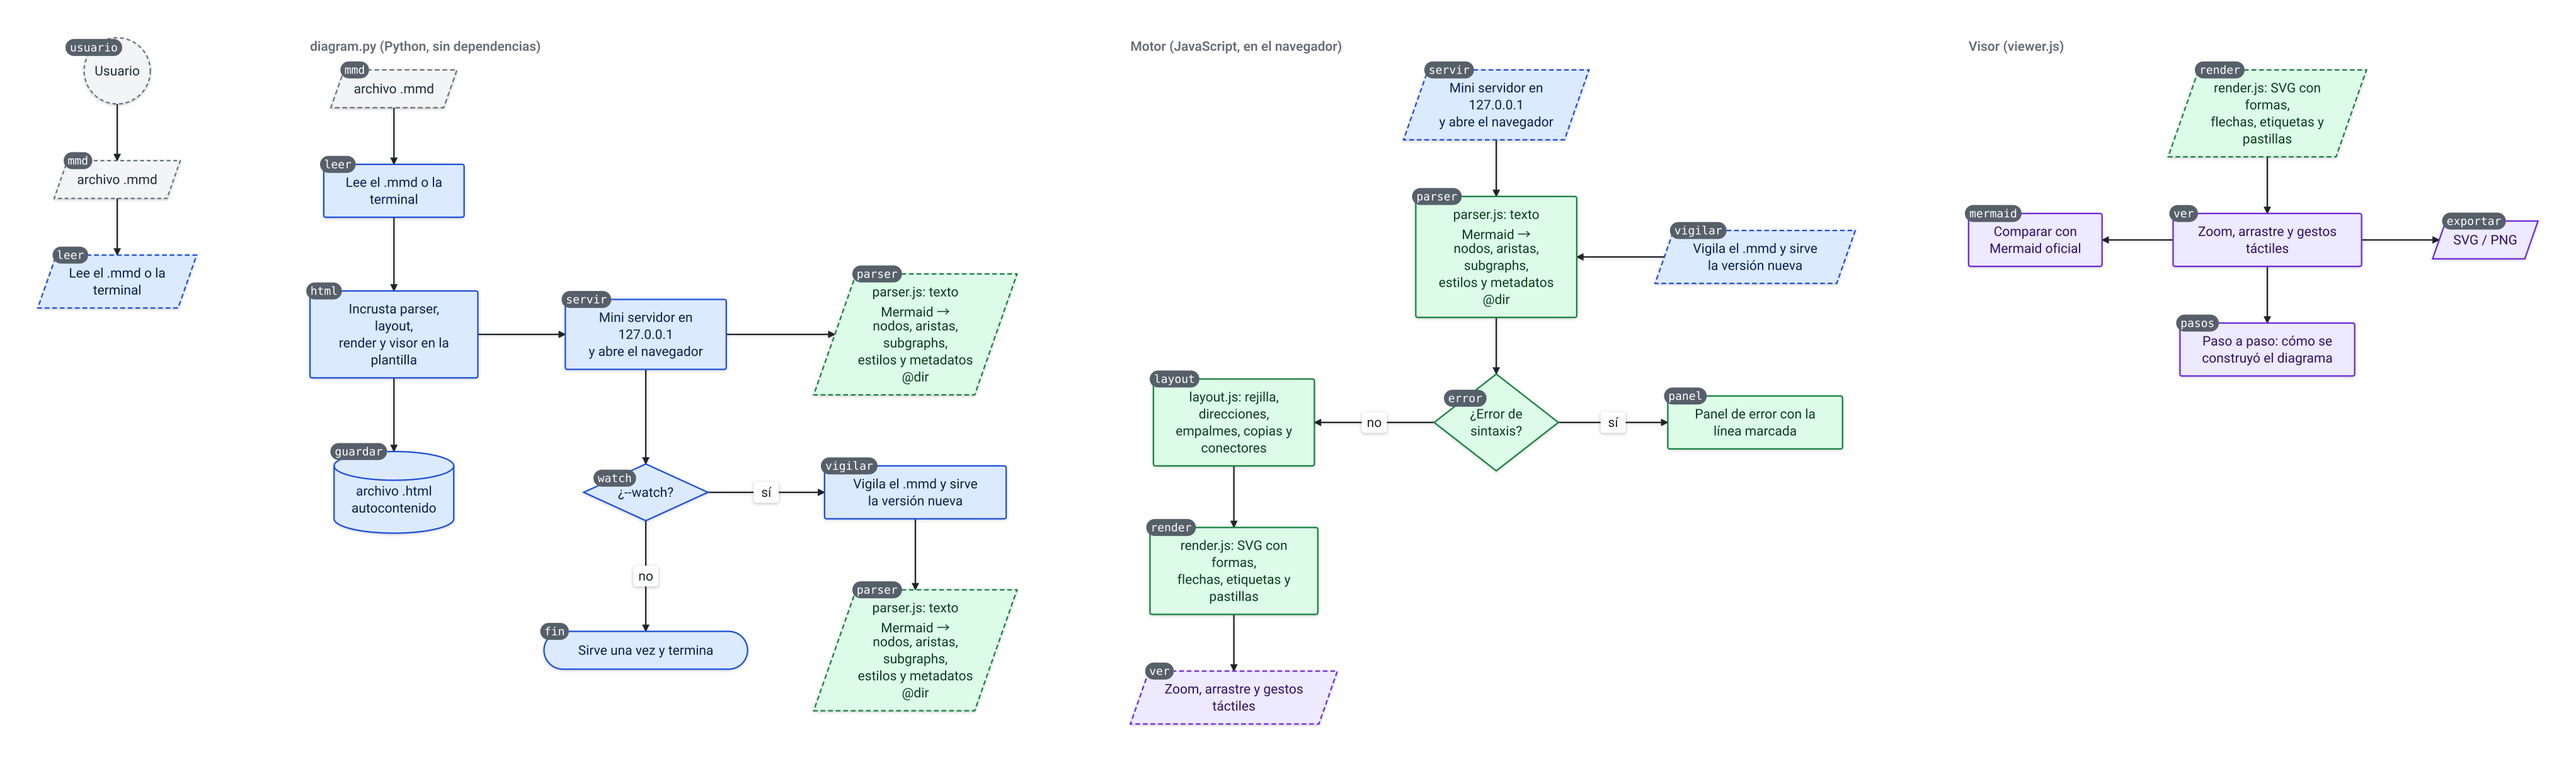
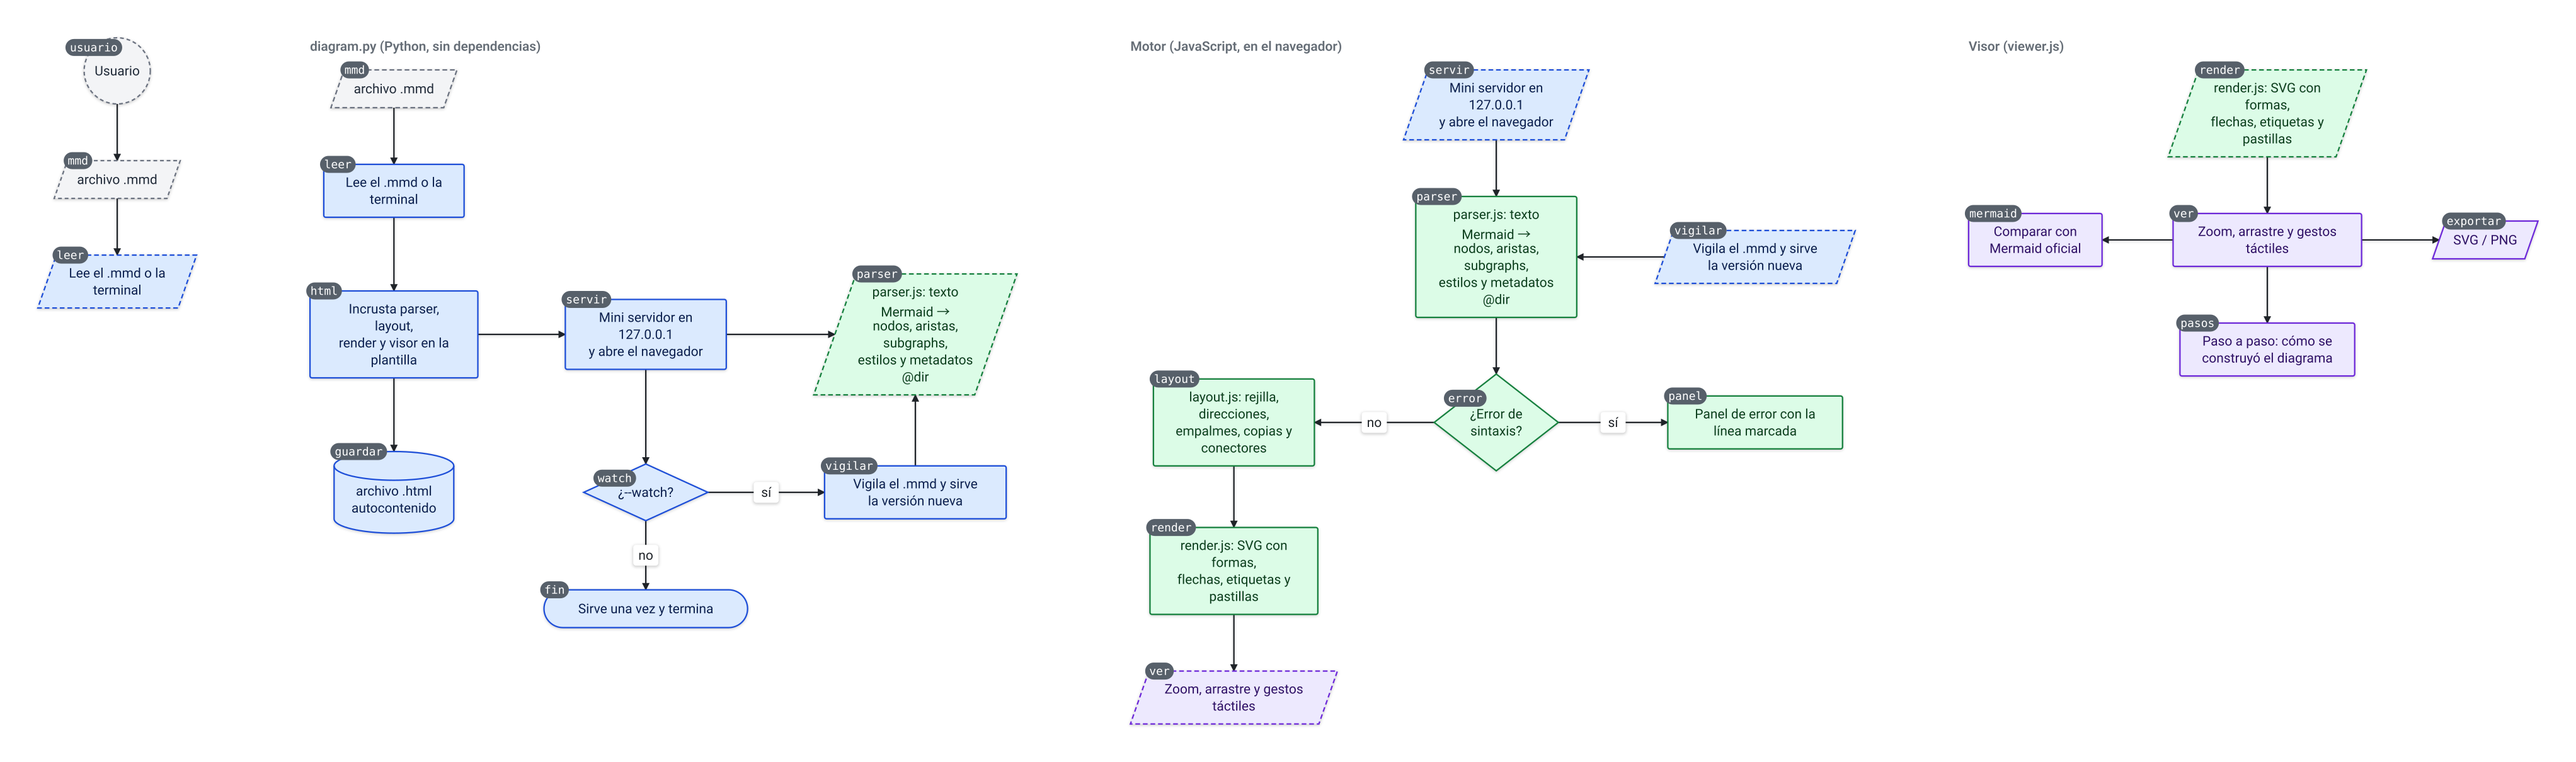
Reutilizar un representante que el nodo ya tiene al lado en vez de crear otro
Si un nodo necesita una referencia, copia o conector de X y ya tiene pegado (o reservado a su
lado) un representante de X, la flecha va a ese. En el diagrama del proyecto, vigilar usa la
referencia a parser que tiene encima en vez de crear otra debajo.

Changed region(s): [[0.1864, 0.7645, 0.4038, 0.9479]]

diff --git a/src/layout.js b/src/layout.js
@@ -864,6 +864,29 @@ function placeInGrid(nodes, edges, warnings, ctx) {
   const roots = [...real.filter((n) => !hasIncoming.has(n.id)), ...real, ...all.filter((n) => n.ref)];
 
   // Coloca los hijos directos (y referencias pegadas) de parent; devuelve los nodos nuevos a recorrer.
+  // Qué nodo representa un nodo (una referencia, una copia o el original tienen la misma identidad;
+  // un empalme o su copia, la de su dueño). Si el padre ya tiene pegado un representante del nodo
+  // que necesita, la flecha va a ese en vez de crear otra referencia, copia o conector.
+  const identity = (n) => (n.shape === "junction" ? `\u25cf${n.junctionOf}` : n.realId || n.id);
+  // También vale una celda reservada para un representante que aún no se ha colocado (con el
+  // recorrido en profundidad, el hermano que lo colocará puede no haberlo hecho todavía).
+  const twinNextTo = (parent, target) => {
+    for (const d of ["down", "right", "left", "up"]) {
+      const key = cellAt(parent, d);
+      const m = occupied.get(key) || (pending.has(key) && nodes.get(pending.get(key)));
+      if (m && m !== target && m !== parent && identity(m) === identity(target)) return { node: m, side: d };
+    }
+    return null;
+  };
+  const reuseTwin = (e, parent, twin, why) => {
+    const old = nodes.get(e.to);
+    for (const [k, id] of pending) if (id === old.id || id === `copy:${e.index}`) pending.delete(k);
+    if (old.col === undefined && edges.every((x) => x === e || (x.from !== old.id && x.to !== old.id))) nodes.delete(old.id);
+    e.to = twin.node.id;
+    e.dir = twin.side;
+    twin.node.why += ` · también recibe la flecha de ${who(parent)} (${why})`;
+  };
+
   const expand = (parent, each) => {
     const placed = [];
     for (const e of edges) {
@@ -890,11 +913,24 @@ function placeInGrid(nodes, edges, warnings, ctx) {
       let child = nodes.get(e.to);
       // Un empalme solo lo coloca su dueño, por su extensión: una rama que llega a él espera.
       if (child.shape === "junction" && child.col === undefined && !e.bus) continue;
+      // Referencia aún sin colocar: si el padre ya tiene pegado un representante del mismo nodo, se usa.
+      if (child.col === undefined && child.ref && !e.bus) {
+        const twin = twinNextTo(parent, child);
+        if (twin) {
+          reuseTwin(e, parent, twin, "ya tenía una referencia igual al lado");
+          continue;
+        }
+      }
       if (child.col !== undefined) {
         if (e.bus) continue; // la extensión a un empalme propio nunca se copia
         // Hijo ya colocado lejos y sin hijos: se le pone una copia aquí, en su turno (regla 12).
         const leaf = farLeaf(parent, child);
         if (!leaf) continue; // TODO (SPEC): bucles / varios padres
+        const twin = twinNextTo(parent, leaf);
+        if (twin) {
+          reuseTwin(e, parent, twin, "en vez de otra copia");
+          continue;
+        }
         child = copyOfLeaf(leaf, e);
       }
       const extra = placeNextTo(parent, child, e);
@@ -1172,6 +1208,11 @@ function placeInGrid(nodes, edges, warnings, ctx) {
       const u = nodes.get(x.from);
       const target = nodes.get(x.to);
       if (!u || !target || u.col === undefined || target.col === undefined || !badLine(x)) continue;
+      const twin = twinNextTo(u, target);
+      if (twin) {
+        reuseTwin(x, u, twin, "en vez de un conector");
+        continue;
+      }
       const owner = target.junctionOf || target.realId || target.id;
       const dot = {
         id: `${target.id}\u2192${++connectors}`,
@@ -1241,7 +1282,7 @@ function placeInGrid(nodes, edges, warnings, ctx) {
   const alive = new Set(nodes.keys());
   const keep = history.filter((h, k) => {
     const placedAt = h.pos.find(([n]) => n.step === k);
-    return !placedAt || alive.has(placedAt[0].id);
+    return placedAt && alive.has(placedAt[0].id);
   });
   for (const h of keep) {
     h.pos = h.pos.filter(([n]) => alive.has(n.id));

diff --git a/tests/layout.test.js b/tests/layout.test.js
@@ -529,3 +529,17 @@ test("varios padres: la flecha que quedaría en diagonal o sobre un nodo termina
     for (const x of s.edges) assert.ok(m[x.from].col === m[x.to].col || m[x.from].row === m[x.to].row, `paso ${k + 1}`);
   }
 });
+
+test("si el padre ya tiene al lado un representante del mismo nodo, la flecha lo reutiliza (proyecto.mmd: vigilar -> parser)", () => {
+  const src = fs.readFileSync(path.join(__dirname, "../examples/proyecto.mmd"), "utf8");
+  const L = layoutDiagram(parseDiagram(src));
+  const refs = L.nodes.filter((n) => n.ref && (n.realId || n.id) === "parser");
+  assert.strictEqual(refs.length, 1, "una sola referencia a parser en el diagrama de diagram.py");
+  const ref = refs[0];
+  for (const from of ["servir", "vigilar"]) {
+    const e = L.edges.find((x) => x.from === from && x.to === ref.id);
+    assert.ok(e, `${from} apunta a la misma referencia`);
+    const a = L.nodes.find((n) => n.id === from);
+    assert.strictEqual(Math.abs(a.col - ref.col) + Math.abs(a.row - ref.row), 1);
+  }
+});

diff --git a/tests/random.test.js b/tests/random.test.js
@@ -26,7 +26,7 @@ const INICIAL = {
 };
 const CONOCIDOS = new Map(
   (
-    "4:F 83:F 104:CFX 107:F 111:F 116:F 195:F 260:F 266:CX 276:CX 303:F 315:F 349:F 383:CX"
+    "4:F 83:F 104:CFX 107:F 111:F 116:F 182:F 195:F 260:F 266:CX 276:CX 303:F 315:F 349:F 383:CX"
   )
     .split(" ")
     .map((x) => x.split(":"))

diff --git a/SPEC.md b/SPEC.md
@@ -230,6 +230,10 @@ Sintaxis de Mermaid: `classDef nombre props`, `id:::nombre`, `class id1,id2 nomb
     de empalme; si el origen no tiene sitio, se usa la cascada de la regla 10. En el paso a
     paso, una flecha provisional que luego se reconduce no se dibuja mientras esté en diagonal o
     sobre un nodo.
+14. **Reutilizar al lado:** si un nodo necesita una referencia, una copia o un conector de X y ya
+    tiene **pegado** (o reservado a su lado) un representante de X —una referencia, una copia o el
+    propio X; para un empalme, cualquier pastilla de su dueño—, la flecha va a ese en vez de crear
+    otro.
 
 ### Rejilla
 
